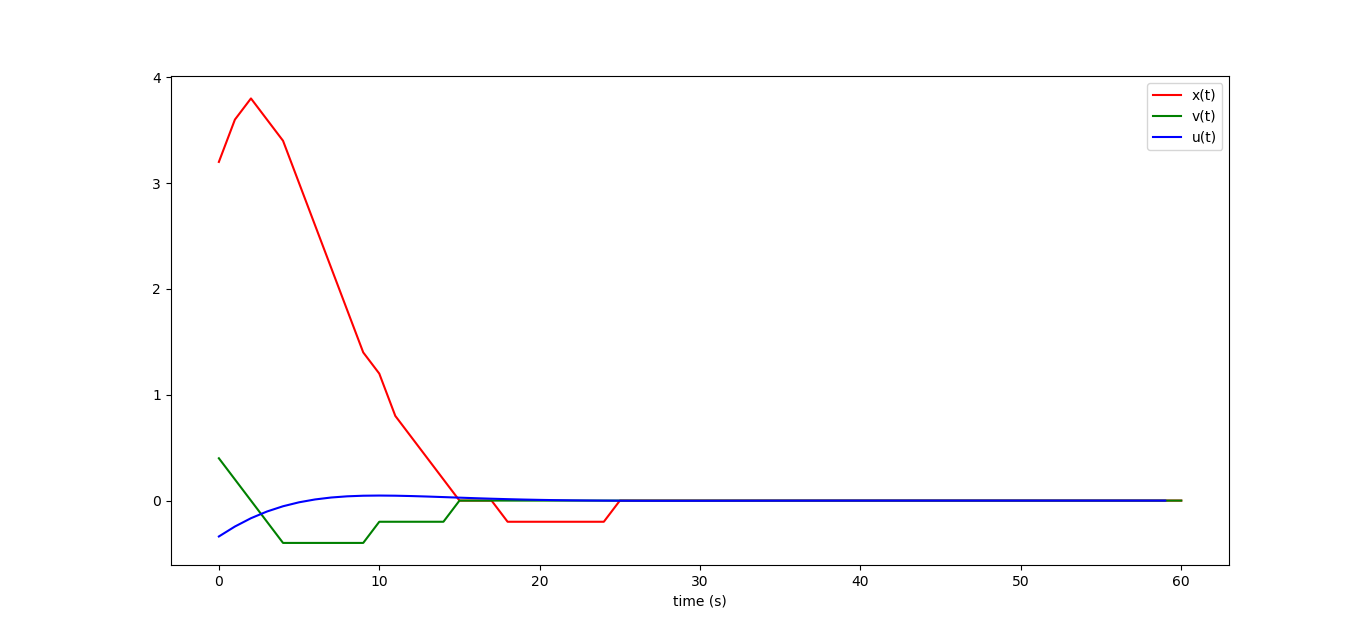
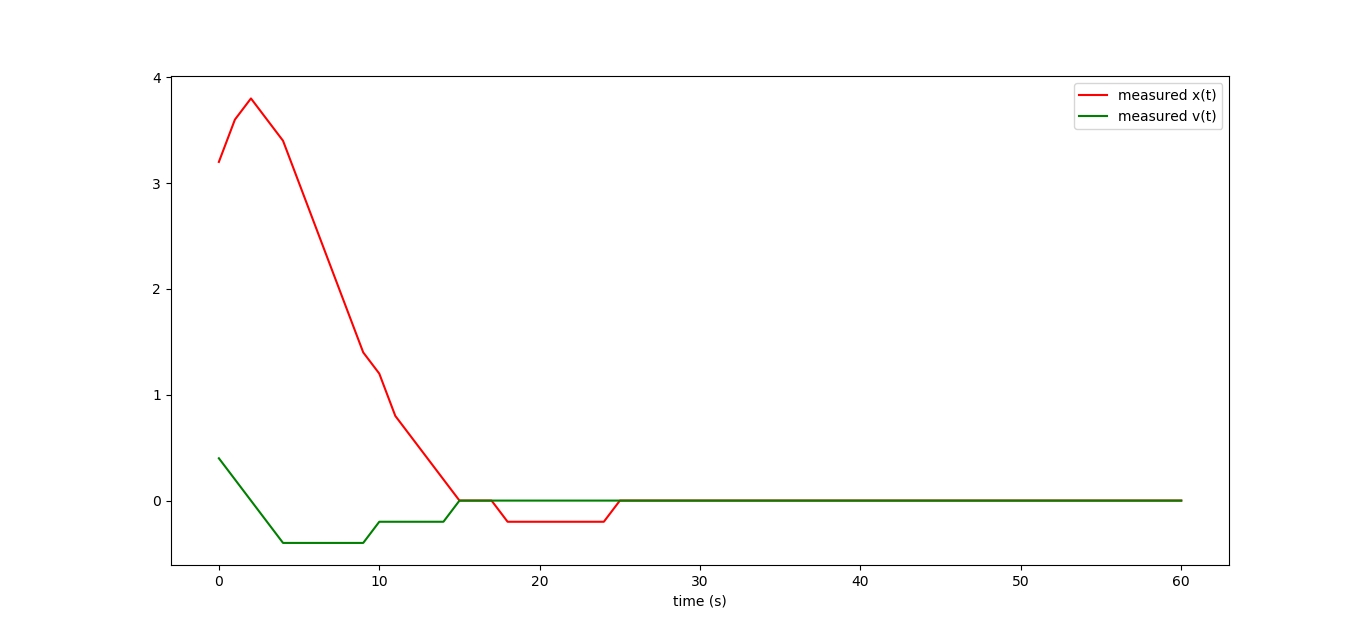
Add files via upload

Changed region(s): [[0.1845, 0.778, 0.8609, 0.8079], [0.7994, 0.1197, 0.8917, 0.2394], [0.1537, 0.8079, 0.1845, 0.8378]]

diff --git a/tutorials/lqr2-observer/run05.py b/tutorials/lqr2-observer/run05.py
@@ -1,0 +1,61 @@
+import matplotlib.pyplot as plt
+import numpy as np
+
+def build_Abar(A, N):
+	n = A.shape[0]
+	Abar = np.matrix( np.zeros(((N+1)*n,n)) )
+	for i in range(N+1):
+		Abar[i*n:(i+1)*n,:] = A**i
+	return Abar
+
+def build_Bbar(A, B, N):
+	(n,m) = B.shape
+	Bbar = np.matrix( np.zeros(((N+1)*n,N*m)) )
+	for i in range(N):
+		for j in range(N-i):
+			Bbar[(N-i)*n:(N-i+1)*n,(N-i-j-1)*m:(N-i-j)*m] = (A**j)*B
+	return Bbar
+
+def gaussian(x, mu, sig):
+	return np.exp(-((x-mu)/sig)**2)/(sig*np.sqrt(2*np.pi))
+
+A = np.matrix([[1,1],[0,1]])
+B = np.matrix([[0],[1]])
+(n,m) = B.shape
+N=60
+
+Abar = build_Abar(A,    N)
+Bbar = build_Bbar(A, B, N)
+
+K=-(Bbar.transpose()*Bbar+np.identity(N*m)*256).I*Bbar.transpose()*Abar
+X0=np.matrix([[3.1],[0.5]])
+U=K*X0
+X=Abar*X0 + Bbar*U
+
+Xorig = X.copy()
+
+X = np.matrix(np.around(X*5)/5.)
+
+
+plt.plot(range(N+1), X[0::2], label="measured x(t)", color='red')
+plt.plot(range(N+1), X[1::2], label="measured v(t)", color='green')
+#plt.plot(range(N),   U,       label="u(t)", color='blue')
+
+Z = X.copy()
+#Z[0,0] = 2
+#Z[1,0] = -1
+for i in range(N):
+	Zi = Z[i*n:(i+1)*n,0]
+	Xi = X[i*n:(i+1)*n,0]
+	Z[(i+1)*n:(i+2)*n,0] = A*Zi + B*U[i*m:(i+1)*m,0] + np.matrix([[-4./3.,0],[-5./9.,0]])*(Zi-Xi)
+#	Z[(i+1)*n:(i+2)*n,0] = A*Zi + B*U[i*m:(i+1)*m,0] + np.matrix([[-0.594,-0.673],[-0.079,-0.774]])*(Zi-Xi)
+
+print("cost:",((X-Xorig).transpose()*(X-Xorig))[0,0])
+print("cost:",((Z-Xorig).transpose()*(Z-Xorig))[0,0])
+	
+plt.plot(range(N+1), Z[0::2], label="filtered x(t)", color='orange')
+plt.plot(range(N+1), Z[1::2], label="filtered v(t)", color='magenta')
+
+plt.xlabel('time (s)')
+plt.legend()
+plt.show()
